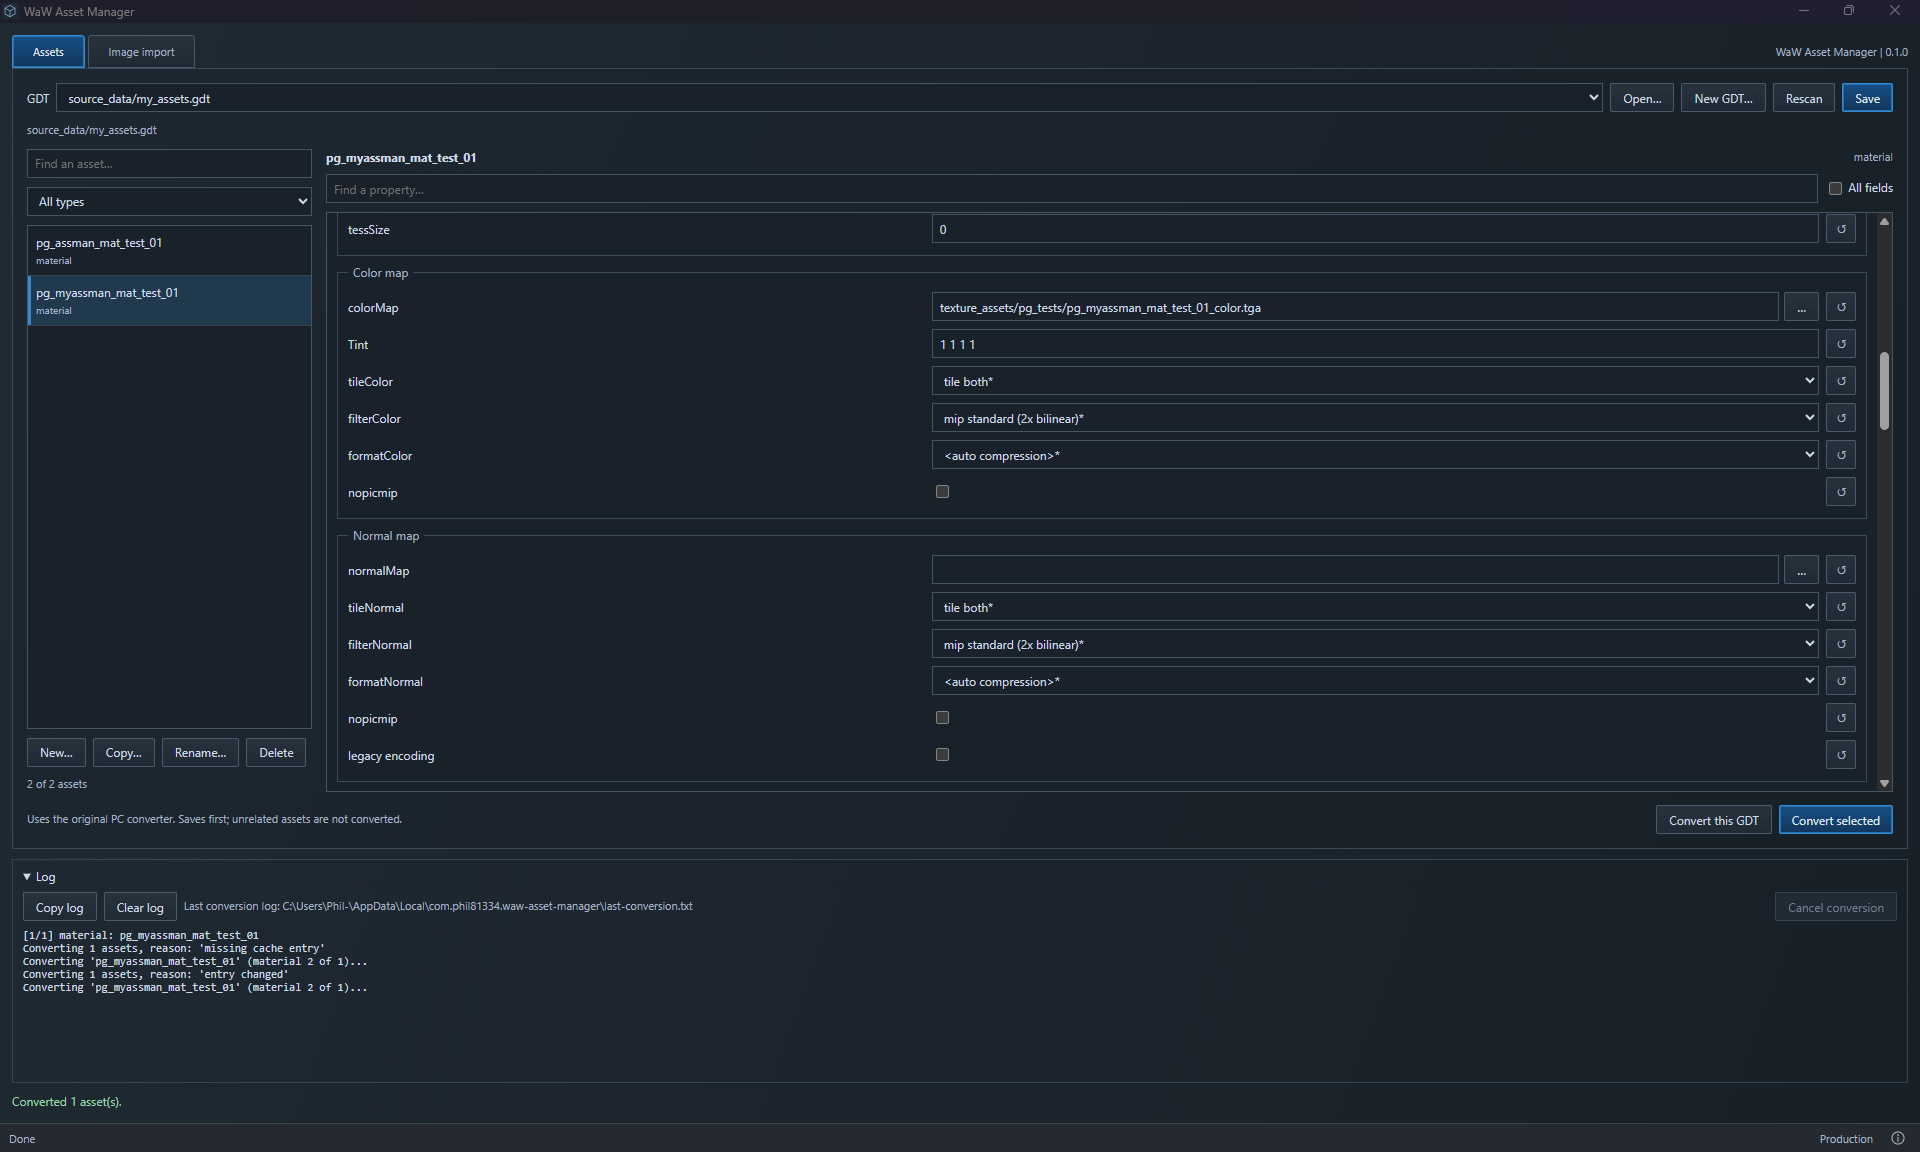
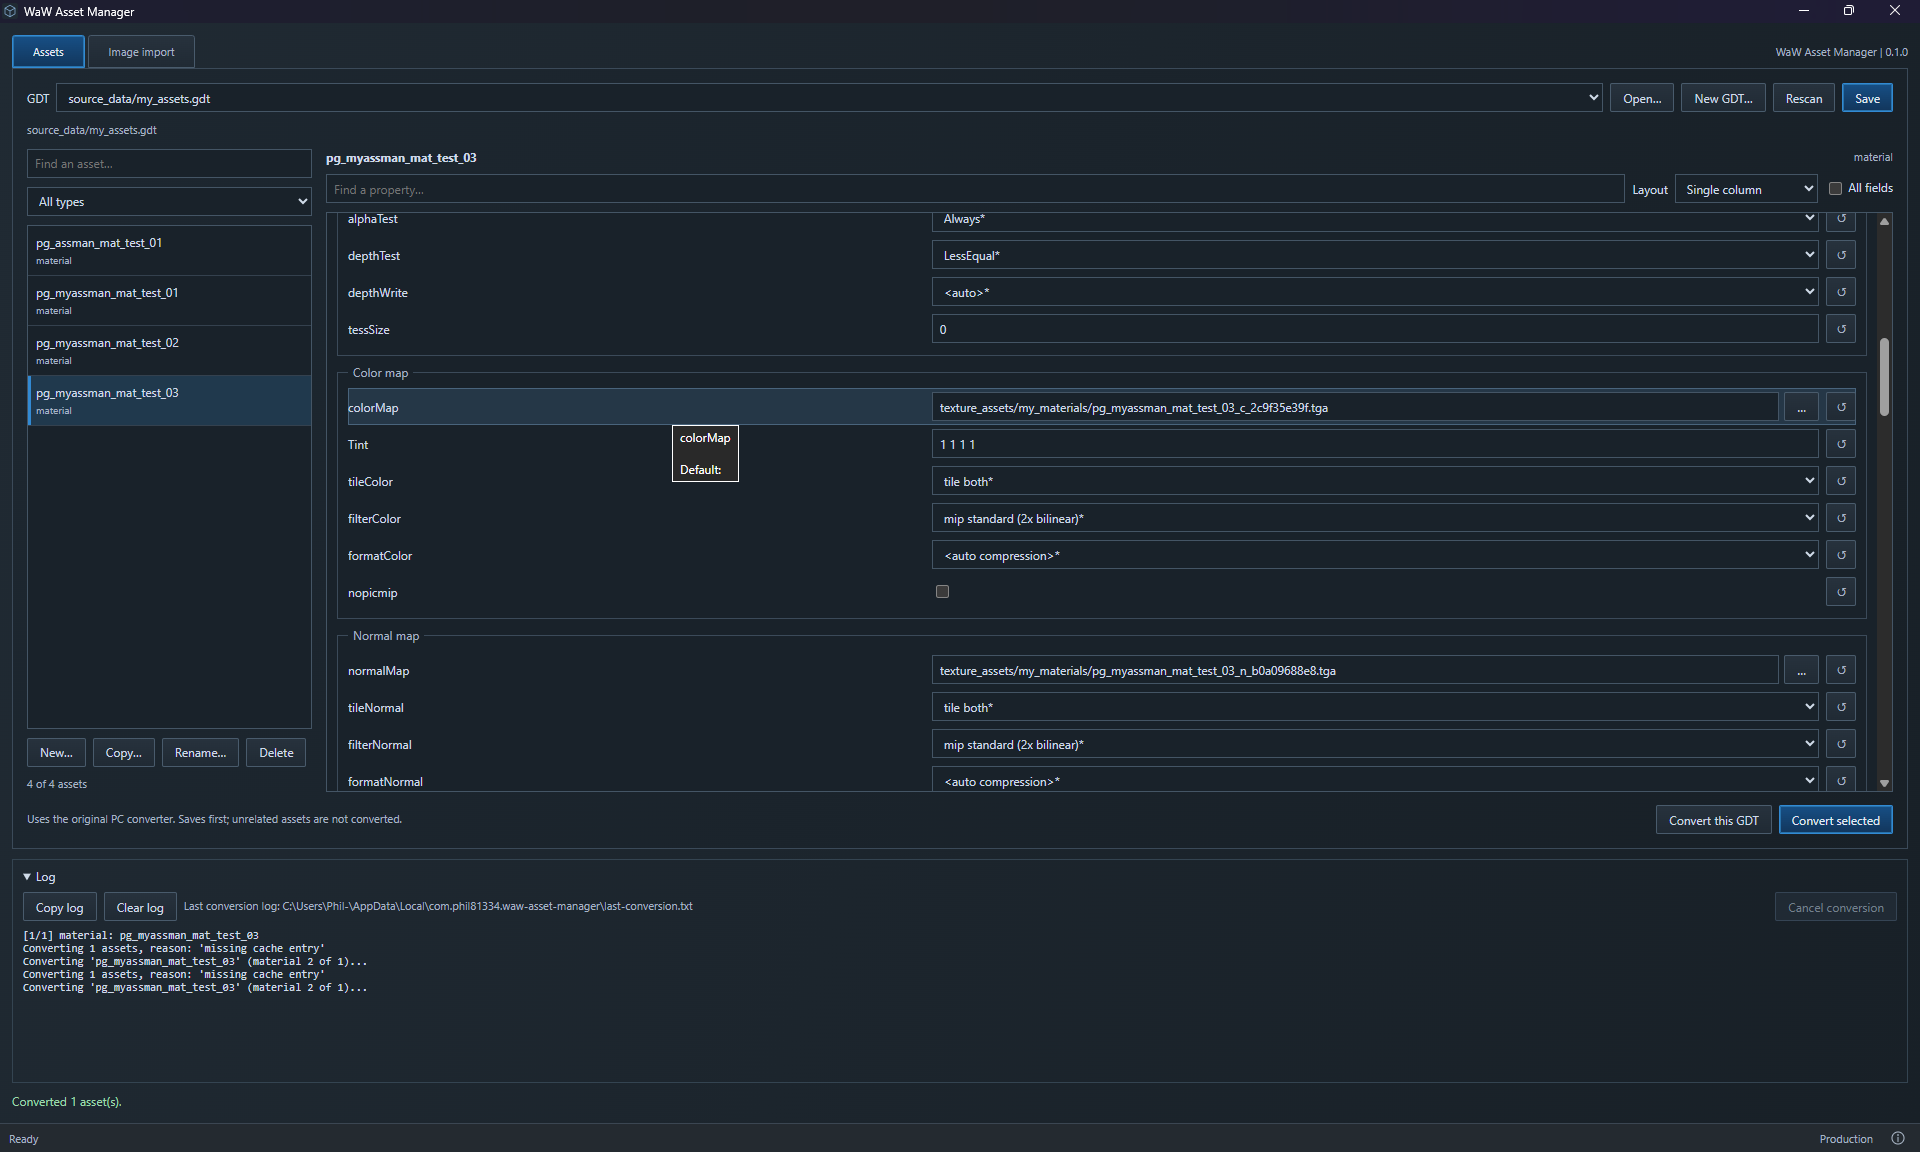
Add current app screenshots

diff --git a/README.md b/README.md
@@ -6,6 +6,8 @@ Edit World at War Modtools assets with a new UI and the original Treyarch conver
 
 ![WaW Asset Manager](images/waw-asset-manager.png)
 
+[Responsive layout](images/waw-asset-manager-stock-section-layout.png) · [Image import](images/waw-asset-manager-import-tab.png)
+
 ## Download and run
 
 1. Have World at War and its Modtools installed in the same game folder.
